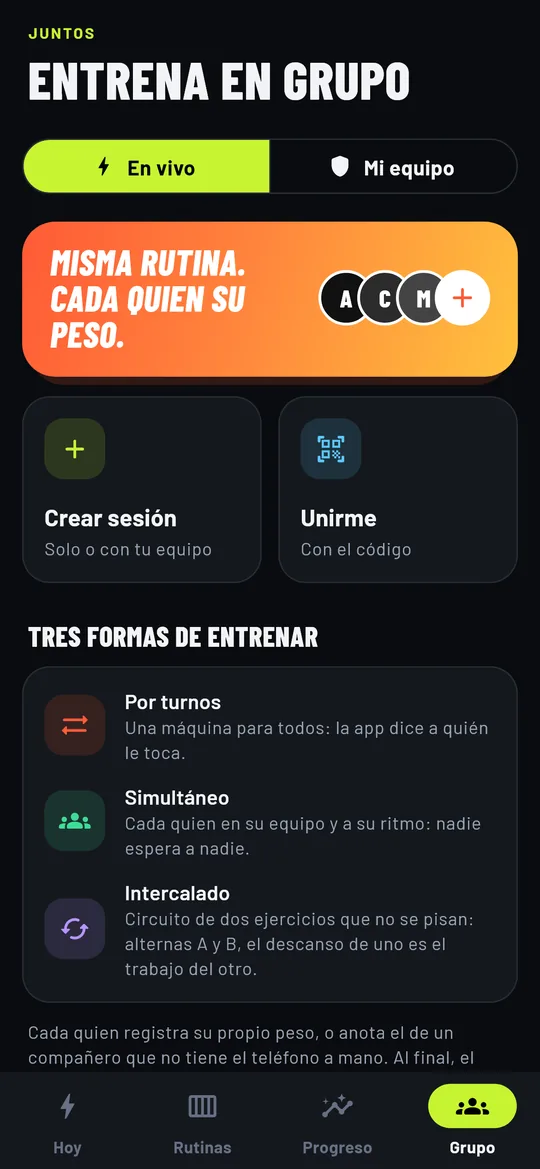
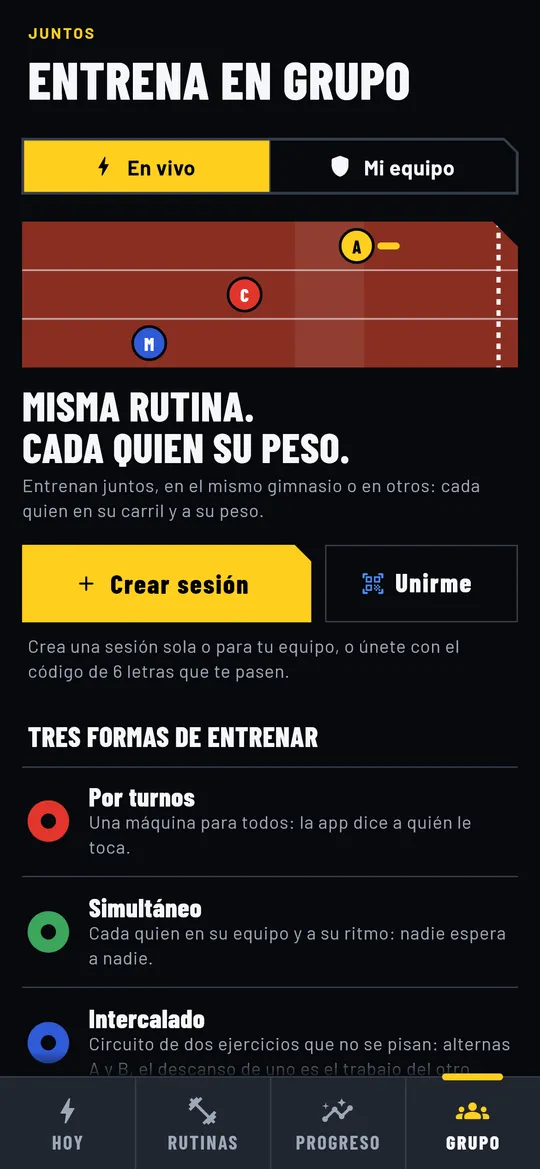
Web al día con la 0.49.0: capturas del diseño nuevo (más Progreso y Los músculos), ícono nuevo, paleta Disco vivo, textos ES/EN (Kronno, reto entre equipos, historias, día ligero, en vivo en gimnasios distintos)

diff --git a/lib/translations.ts b/lib/translations.ts
@@ -39,12 +39,12 @@ type Dict = {
 
 export const translations: Record<Lang, Dict> = {
   es: {
-    nav: { badge: "Beta · v0.35" },
+    nav: { badge: "Beta · v0.49" },
     hero: {
       titleLine1: "Entrena con tus amigos,",
       titleLine2: "compite contra ti mismo.",
-      lead: "App de entrenamiento de fuerza para grupos: sesiones en vivo en el mismo gimnasio, progresión automática del peso y una competencia justa donde cada quien se mide con sus propias semanas.",
-      pills: ["👥 Entreno en vivo", "📈 Motor de progresión", "🔥 La antorcha", "🏆 Liga semanal", "📴 Sin internet"],
+      lead: "App de entrenamiento de fuerza para grupos: sesiones en vivo en el mismo gimnasio o en distintos, progresión automática del peso, un coach que cita estudios y una competencia justa donde cada quien se mide con sus propias semanas.",
+      pills: ["👥 Entreno en vivo", "📈 Motor de progresión", "🧠 Coach Kronno", "🔥 La antorcha", "🏆 Liga y retos", "📴 Sin internet"],
       langPill: "🌐 ES / EN",
       downloadBtn: "📲 Descargar la app",
       downloadTag: "ANDROID",
@@ -56,7 +56,7 @@ export const translations: Record<Lang, Dict> = {
     },
     shots: {
       caption: "Capturas reales de la app, generadas en un test de Flutter.",
-      items: ["Hoy", "Serie de tanteo", "Resumen y puntos", "Grupo en vivo", "Mi equipo", "Liga"],
+      items: ["Hoy", "Serie de tanteo", "Resumen y puntos", "Grupo en vivo", "Mi equipo", "Liga", "Progreso y tu año", "Los músculos"],
     },
     demo: {
       title: "Prueba el motor de progresión",
@@ -69,7 +69,7 @@ export const translations: Record<Lang, Dict> = {
       reps: (w) => `Sigue con ${w} kg y suma una rep en cada serie hasta llegar a 12 en todas.`,
       short: (w, min) =>
         `Te quedaste por debajo de ${min} reps: repite ${w} kg y busca completar el rango antes de subir.`,
-      note: "Versión simplificada para la demo. La app tiene 6 modelos, descarga automática tras 3 sesiones sin cumplir y redondeo al equipo disponible.",
+      note: "Versión simplificada para la demo. La app tiene 6 modelos, baja el peso un 10 % tras 3 sesiones sin cumplir y redondea al equipo de tu gimnasio.",
     },
     features: {
       title: "Qué incluye",
@@ -78,7 +78,7 @@ export const translations: Record<Lang, Dict> = {
         {
           icon: "👥",
           title: "Entreno en vivo",
-          desc: "Una persona crea la sesión y los demás entran con un código. La app lleva los turnos en la máquina, el descanso común o un circuito intercalado.",
+          desc: "Una persona crea la sesión y los demás entran con un código, en el mismo gimnasio o en distintos. La app lleva los turnos en la máquina, el ritmo de cada quien o un circuito intercalado.",
         },
         {
           icon: "⚖",
@@ -91,14 +91,29 @@ export const translations: Record<Lang, Dict> = {
           desc: "Una racha de todo el equipo que sigue encendida mientras cada quien entrene en la semana. Si alguien falta, se apaga.",
         },
         {
+          icon: "🤝",
+          title: "Reto entre equipos",
+          desc: "Una semana contra otro equipo: gana el que más entrena y más entrena junto en vivo. El peso no cuenta, y un equipo chico compite igual que uno grande.",
+        },
+        {
+          icon: "📸",
+          title: "Compartir en historias",
+          desc: "Al terminar, una imagen vertical para Instagram, TikTok o WhatsApp con tus series, puntos y récords, o la mejora de cada quien en el grupo.",
+        },
+        {
           icon: "📈",
           title: "Motor de progresión",
           desc: "6 modelos (lineal, doble, ondulante, por bloques, triple y densidad) que calculan la próxima sesión y explican cada decisión en lenguaje normal.",
         },
         {
           icon: "🧠",
-          title: "Coach basado en estudios",
-          desc: "Revisa tu rutina, tus series y tu semana, y cada consejo trae sus fuentes.",
+          title: "Kronno, coach basado en estudios",
+          desc: "Revisa tu rutina, tus series, tu semana y tu sueño, y cada consejo trae su estudio (53 fuentes). Sin estudio, no hay consejo.",
+        },
+        {
+          icon: "🌙",
+          title: "Día ligero y descarga",
+          desc: "¿Cansado? Elige un día ligero y Kronno te baja el peso y las series. Cuenta como día entrenado, pero no frena tu progresión.",
         },
         {
           icon: "🎯",
@@ -164,12 +179,12 @@ export const translations: Record<Lang, Dict> = {
     },
   },
   en: {
-    nav: { badge: "Beta · v0.35" },
+    nav: { badge: "Beta · v0.49" },
     hero: {
       titleLine1: "Train with your friends,",
       titleLine2: "compete against yourself.",
-      lead: "A strength-training app for groups: live sessions at the same gym, automatic weight progression and fair competition where everyone measures against their own past weeks.",
-      pills: ["👥 Live workouts", "📈 Progression engine", "🔥 The torch", "🏆 Weekly league", "📴 Works offline"],
+      lead: "A strength-training app for groups: live sessions at the same gym or at different ones, automatic weight progression, a coach that cites research and fair competition where everyone measures against their own past weeks.",
+      pills: ["👥 Live workouts", "📈 Progression engine", "🧠 Coach Kronno", "🔥 The torch", "🏆 League and challenges", "📴 Works offline"],
       langPill: "🌐 ES / EN",
       downloadBtn: "📲 Download the app",
       downloadTag: "ANDROID",
@@ -181,7 +196,7 @@ export const translations: Record<Lang, Dict> = {
     },
     shots: {
       caption: "Real screenshots of the app, generated in a Flutter test.",
-      items: ["Today", "Test set", "Summary and points", "Live group", "My team", "League"],
+      items: ["Today", "Test set", "Summary and points", "Live group", "My team", "League", "Progress and your year", "The muscles"],
     },
     demo: {
       title: "Try the progression engine",
@@ -193,7 +208,7 @@ export const translations: Record<Lang, Dict> = {
         `You hit the top of the range on all 3 sets with ${w} kg: today go up to ${newW} kg and back to ${min} reps.`,
       reps: (w) => `Stay at ${w} kg and add one rep per set until you reach 12 on all of them.`,
       short: (w, min) => `You fell below ${min} reps: repeat ${w} kg and complete the range before going up.`,
-      note: "Simplified version for the demo. The app has 6 models, an automatic deload after 3 missed sessions and rounding to the available equipment.",
+      note: "Simplified version for the demo. The app has 6 models, drops the weight 10% after 3 missed sessions and rounds to your gym's equipment.",
     },
     features: {
       title: "What's inside",
@@ -202,7 +217,7 @@ export const translations: Record<Lang, Dict> = {
         {
           icon: "👥",
           title: "Live workouts",
-          desc: "One person starts the session and the others join with a code. The app handles turns on the machine, a shared rest or an alternating circuit.",
+          desc: "One person starts the session and the others join with a code, at the same gym or at different ones. The app handles turns on the machine, each person's own pace or an alternating circuit.",
         },
         {
           icon: "⚖",
@@ -215,14 +230,29 @@ export const translations: Record<Lang, Dict> = {
           desc: "A team-wide streak that stays lit as long as everyone trains during the week. If someone misses, it goes out.",
         },
         {
+          icon: "🤝",
+          title: "Team challenges",
+          desc: "One week against another team: the one that trains more, and trains together live more, wins. Weight doesn't count, and a small team competes on equal terms with a big one.",
+        },
+        {
+          icon: "📸",
+          title: "Share to stories",
+          desc: "When you finish, a vertical image for Instagram, TikTok or WhatsApp with your sets, points and records, or everyone's improvement in the group.",
+        },
+        {
           icon: "📈",
           title: "Progression engine",
           desc: "6 models (linear, double, undulating, block, triple and density) that plan the next session and explain each decision in plain language.",
         },
         {
           icon: "🧠",
-          title: "Research-based coach",
-          desc: "Reviews your routine, your sets and your week, and every tip comes with its sources.",
+          title: "Kronno, a research-based coach",
+          desc: "Reviews your routine, your sets, your week and your sleep, and every tip comes with its study (53 sources). No study, no tip.",
+        },
+        {
+          icon: "🌙",
+          title: "Light day and deload",
+          desc: "Tired? Pick a light day and Kronno lowers the weight and the sets. It counts as a training day, but doesn't hold back your progression.",
         },
         {
           icon: "🎯",

diff --git a/app/globals.css b/app/globals.css
@@ -1,14 +1,14 @@
 :root {
-  --bg: #0a0c0f;
-  --bg-soft: #111419;
-  --card: #14181d;
+  --bg: #07090d;
+  --bg-soft: #12161c;
+  --card: #20262f;
   --card-border: rgba(255, 255, 255, 0.08);
-  --text: #f4f4f8;
-  --text-dim: #9a9ab0;
-  --accent: #c6f432;
-  --accent2: #ff5a36;
-  --accent-soft: rgba(198, 244, 50, 0.12);
-  --accent-line: rgba(198, 244, 50, 0.35);
+  --text: #f5f7fa;
+  --text-dim: #9da8b9;
+  --accent: #ffcf1f;
+  --accent2: #ff4b4b;
+  --accent-soft: rgba(255, 207, 31, 0.12);
+  --accent-line: rgba(255, 207, 31, 0.35);
 }
 * {
   box-sizing: border-box;
@@ -19,8 +19,8 @@ body {
   padding: 0;
 }
 body {
-  background: radial-gradient(900px 500px at 85% -10%, rgba(255, 90, 54, 0.14), transparent 60%),
-    radial-gradient(700px 400px at 0% 0%, rgba(198, 244, 50, 0.08), transparent 55%), var(--bg);
+  background: radial-gradient(900px 500px at 85% -10%, rgba(255, 75, 75, 0.14), transparent 60%),
+    radial-gradient(700px 400px at 0% 0%, rgba(255, 207, 31, 0.08), transparent 55%), var(--bg);
   color: var(--text);
   font-family: -apple-system, BlinkMacSystemFont, "Segoe UI", Roboto, Inter, Helvetica, Arial, sans-serif;
   line-height: 1.5;
@@ -73,7 +73,7 @@ header.nav {
   height: 88px;
   border-radius: 22px;
   margin-bottom: 24px;
-  box-shadow: 0 0 0 1px var(--card-border), 0 20px 60px -20px rgba(198, 244, 50, 0.35);
+  box-shadow: 0 0 0 1px var(--card-border), 0 20px 60px -20px rgba(255, 207, 31, 0.35);
 }
 .hero h1 {
   font-size: clamp(30px, 4.6vw, 48px);
@@ -115,7 +115,7 @@ header.nav {
   gap: 10px;
   margin-top: 30px;
   background: var(--accent);
-  color: #0a0c0f;
+  color: #07090d;
   border: none;
   border-radius: 14px;
   padding: 14px 26px;
@@ -129,7 +129,7 @@ header.nav {
 }
 .download-btn:hover {
   transform: translateY(-2px);
-  box-shadow: 0 12px 30px -10px rgba(198, 244, 50, 0.6);
+  box-shadow: 0 12px 30px -10px rgba(255, 207, 31, 0.6);
 }
 .download-btn .soon {
   position: absolute;
@@ -205,7 +205,7 @@ header.nav {
 }
 .feat:hover {
   border-color: var(--accent-line);
-  box-shadow: 0 20px 40px -16px rgba(198, 244, 50, 0.4);
+  box-shadow: 0 20px 40px -16px rgba(255, 207, 31, 0.4);
 }
 .feat .icn {
   width: 38px;
@@ -339,7 +339,7 @@ footer a:hover {
   border-radius: 18px;
   border: 1px solid var(--card-border);
   display: block;
-  box-shadow: 0 20px 50px -24px rgba(198, 244, 50, 0.35);
+  box-shadow: 0 20px 50px -24px rgba(255, 207, 31, 0.35);
 }
 .shots figcaption {
   font-size: 12px;

diff --git a/app/layout.tsx b/app/layout.tsx
@@ -3,7 +3,7 @@ import { LanguageProvider } from "@/lib/LanguageContext";
 import "./globals.css";
 
 const description =
-  "App de entrenamiento de fuerza para grupos: entreno en vivo, motor de progresión, competencia justa y modo sin conexión. Flutter, Node.js/TypeScript y PostgreSQL.";
+  "App de entrenamiento de fuerza para grupos: entreno en vivo, motor de progresión, un coach que cita estudios, competencia justa y modo sin conexión. Flutter, Node.js/TypeScript y PostgreSQL.";
 
 export const metadata: Metadata = {
   title: "Relevo — Entrenamiento de fuerza en grupo",

diff --git a/components/Screenshots.tsx b/components/Screenshots.tsx
@@ -10,6 +10,8 @@ const FILES = [
   "05-grupo-en-vivo",
   "06-mi-equipo",
   "07-liga",
+  "04-progreso",
+  "13-manual-musculos",
 ];
 
 export default function Screenshots() {
